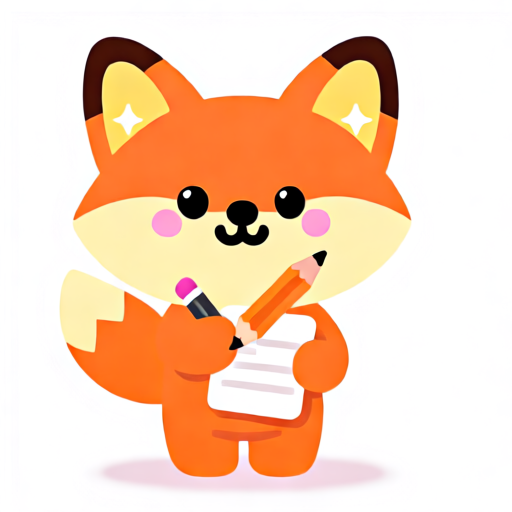
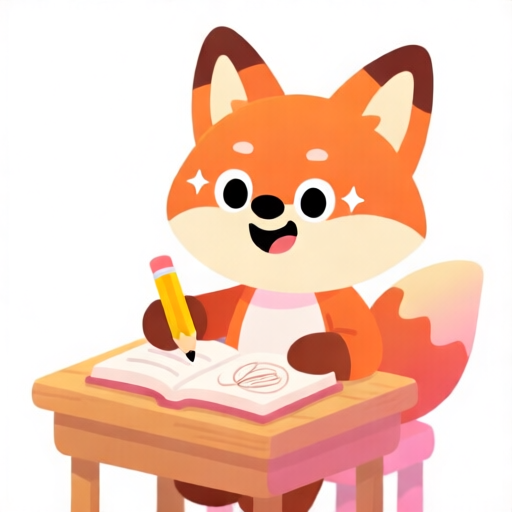
fix(mascots): regen vocab/grammar/writing poses with clearer mode metaphors
The previous prompts read ambiguously:
- flashcards (vocab) → "alphabet letters" instead of "vocabulary words"
- chart (grammar) → generic structure diagram, not specifically "grammar"
- writing → small paper, ambiguous between writing and reading

New prompts use unambiguous visual metaphors:
- flashcards: picture-dictionary book with apple/cat/tree word entries
- chart: chalkboard with subject->action->object sentence diagram
- writing: at desk with large notebook, actively writing with pencil

Bump Mascot ASSET_VERSION to 4 so browsers refetch the regenerated PNGs.

diff --git a/apps/web/scripts/generate-mascot-assets.ts b/apps/web/scripts/generate-mascot-assets.ts
@@ -61,10 +61,10 @@ const POSES: Pose[] = [
   { slug: "waving", verb: "standing upright waving one paw or wing in greeting, full body view, cheerful smile" },
   { slug: "reading", verb: "sitting and reading an open book held in front, eyes looking at the page, full body view, calm focused expression" },
   { slug: "listening", verb: "wearing oversized headphones, head tilted slightly, full body view, eyes closed in concentration, peaceful expression" },
-  { slug: "writing", verb: "holding a pencil and writing on a small notepad, full body view, focused happy expression" },
+  { slug: "writing", verb: "sitting at a small wooden desk with a large open notebook on top, holding a yellow pencil actively writing on the open notebook page (visible scribble lines on the page), focused happy expression, full body view at the desk" },
   { slug: "microphone", verb: "holding a microphone close to its mouth, full body view, confident expression as if about to speak" },
-  { slug: "flashcards", verb: "holding up a large bright alphabet letter card showing a clear capital letter A or B, three to four colorful floating cartoon letter shapes around the head (A, B, C, D), full body view, encouraging smile" },
-  { slug: "chart", verb: "standing beside a small green chalkboard easel that shows a simple cartoon sentence-structure diagram (three colored rectangles connected by curving lines with arrow tips, like a sentence tree), holding a small wooden pointer, full body view, teaching pose" },
+  { slug: "flashcards", verb: "holding open a large picture-dictionary book in front of body, the two visible pages showing four cartoon picture-word entries arranged in a 2x2 grid: a red apple, an orange cat, a green tree, a yellow sun, each picture sitting above its abstract word-shape squiggle line, full body view, happy excited expression looking down at the book" },
+  { slug: "chart", verb: "standing beside a small green chalkboard easel, the chalkboard surface clearly showing a simple cartoon sentence diagram with three labeled colored boxes in a row (a blue smiley-face icon box on the left, a green action-arrow box in the middle, a yellow gift-shape box on the right) connected by white chalk arrows pointing left to right, full body view holding a small wooden pointer touching the middle box, teaching pose, focused happy expression" },
   { slug: "celebrating", verb: "both arms or wings raised in the air in joyful celebration, full body view, mouth open in happy laugh" },
   { slug: "thinking", verb: "sitting with one paw or wing under chin, eyes looking up, full body view, contemplative expression with question marks floating beside head" },
   { slug: "sleeping", verb: "curled up sleeping with eyes closed, small zzz floating above, full body view in cozy resting pose" },

diff --git a/apps/web/src/components/Mascot.tsx b/apps/web/src/components/Mascot.tsx
@@ -43,7 +43,11 @@ export function Mascot({
 }: MascotProps) {
   const character = portal === "ket" ? "leo" : "aria";
   const defaultAlt = portal === "ket" ? "Leo" : "Aria";
-  const src = `/mascots/${character}/${pose}.png`;
+  // Cache-buster so the browser + next/image optimizer refetch when
+  // pose assets are regenerated (otherwise old optimized versions stick
+  // around even after a hard refresh). Bump this when assets change.
+  const ASSET_VERSION = 4;
+  const src = `/mascots/${character}/${pose}.png?v=${ASSET_VERSION}`;
   return (
     <Image
       src={src}
